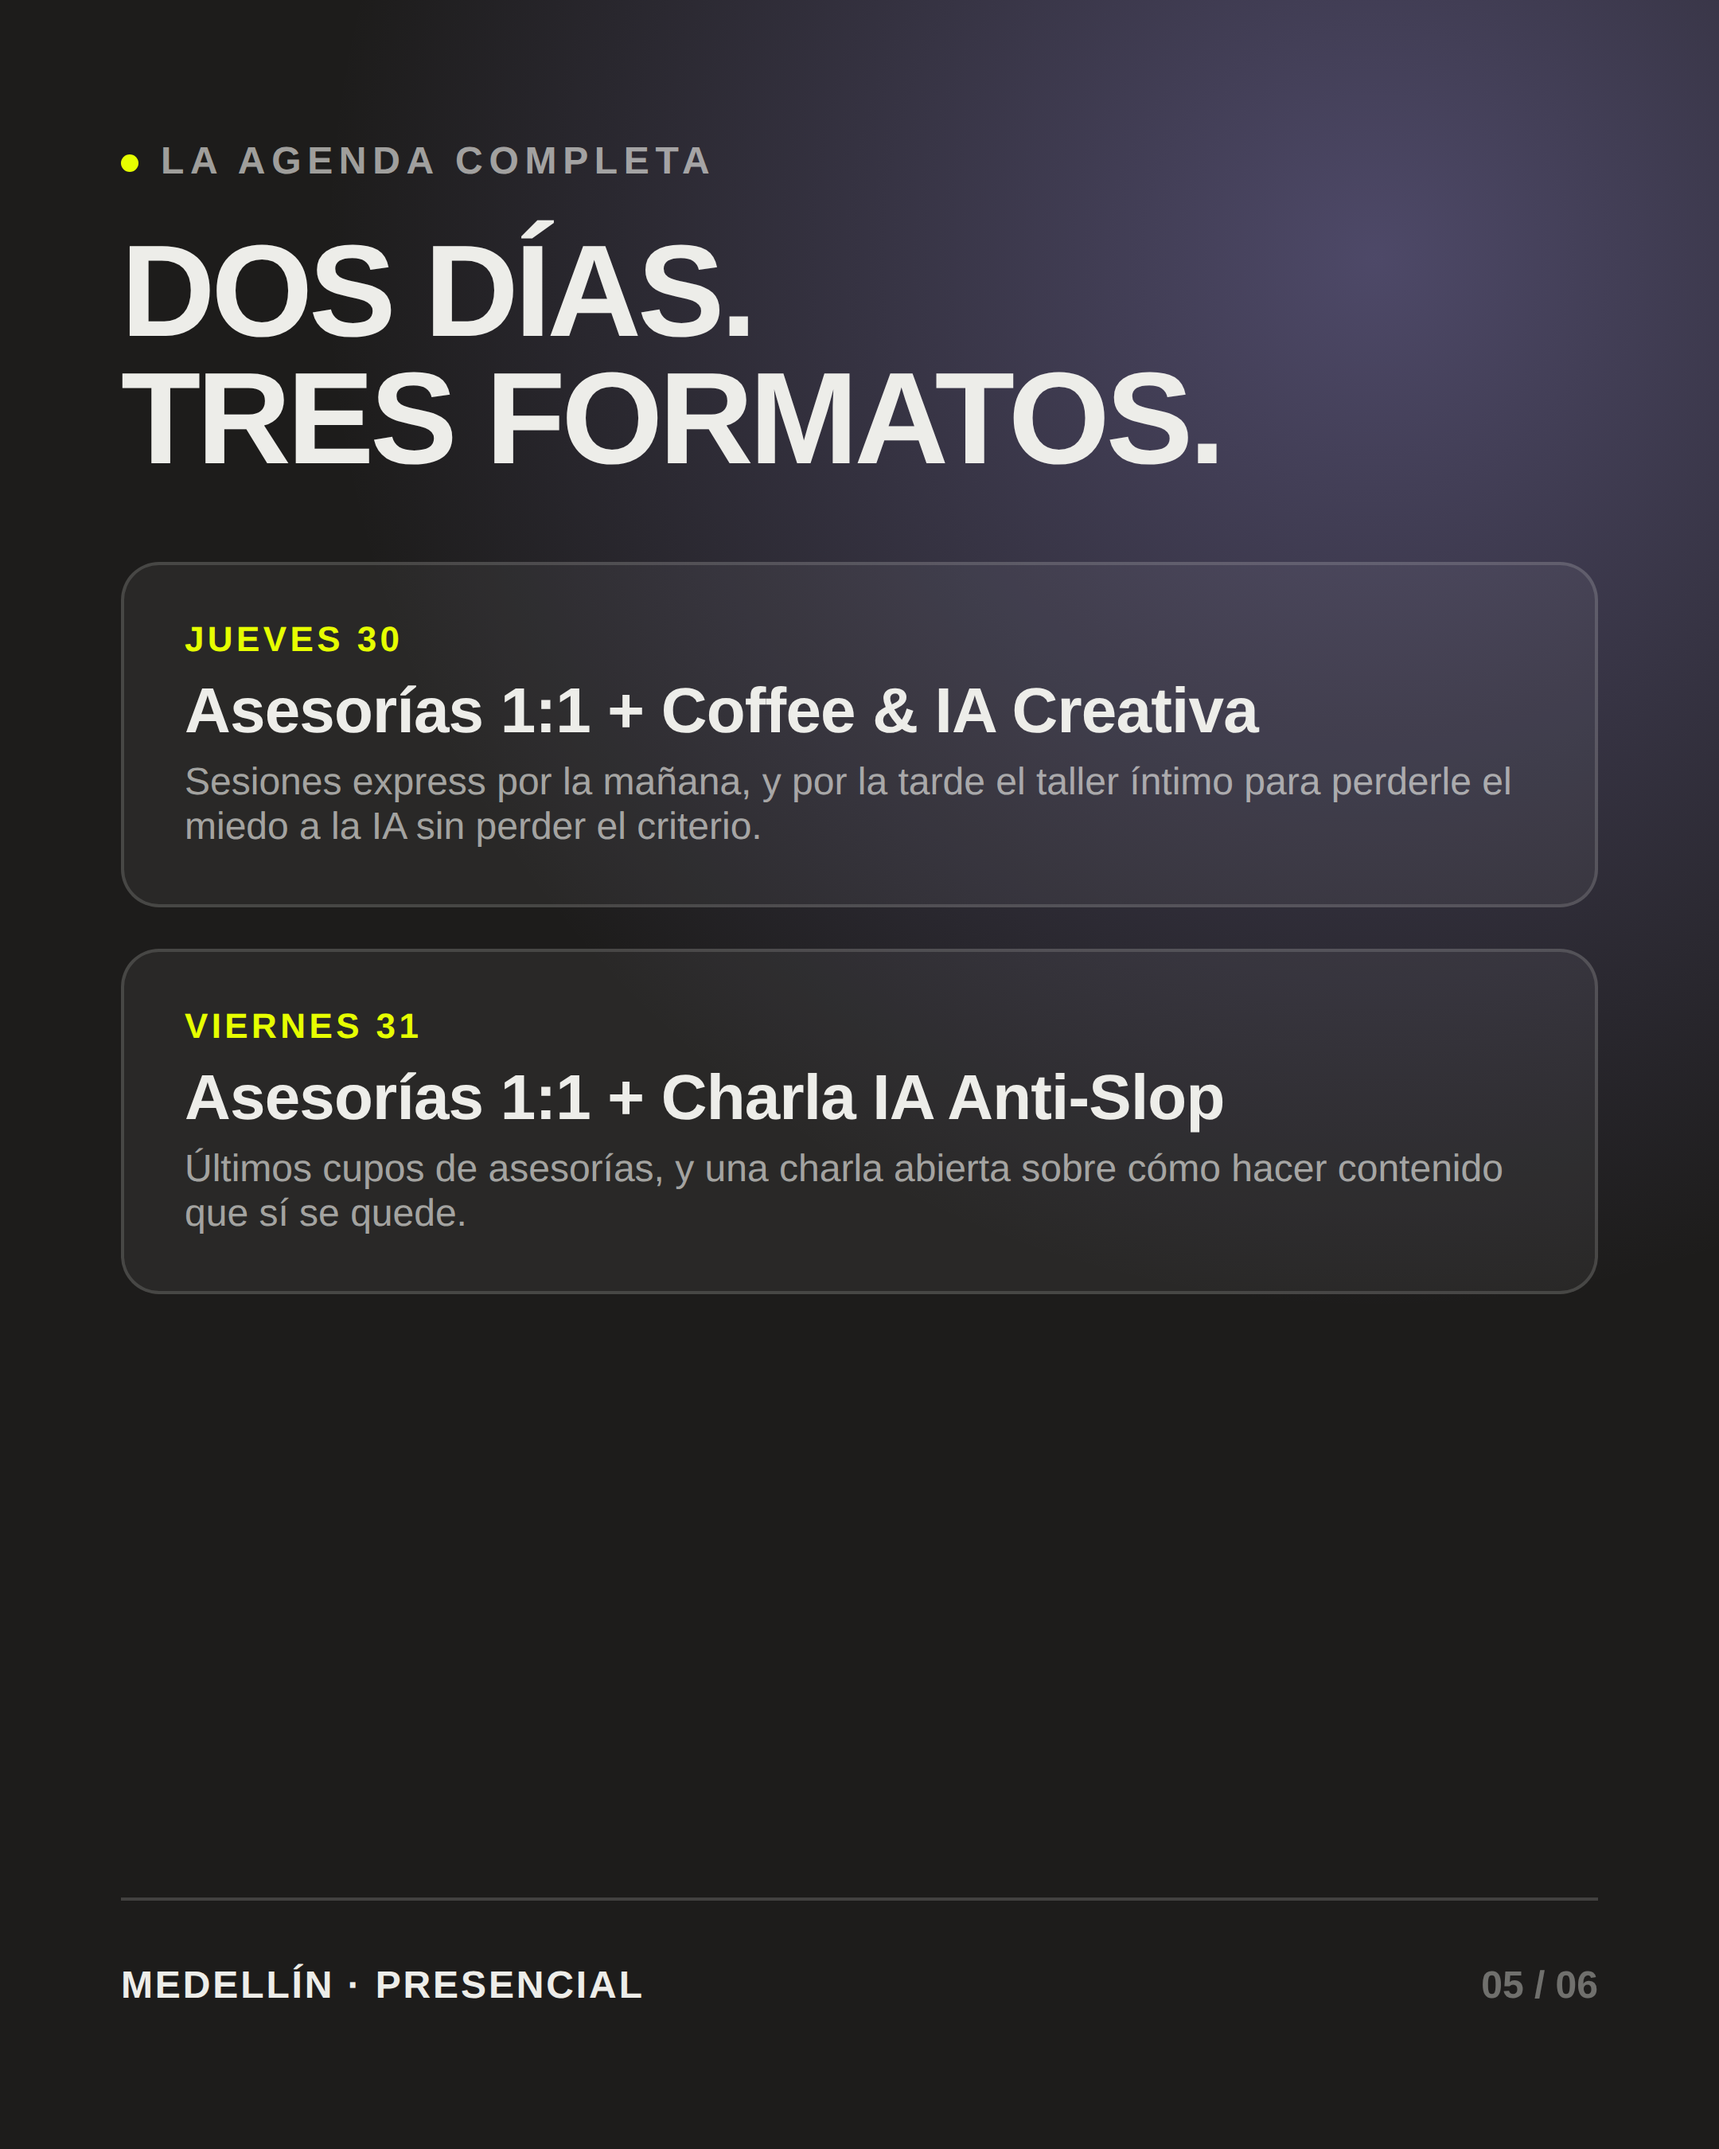
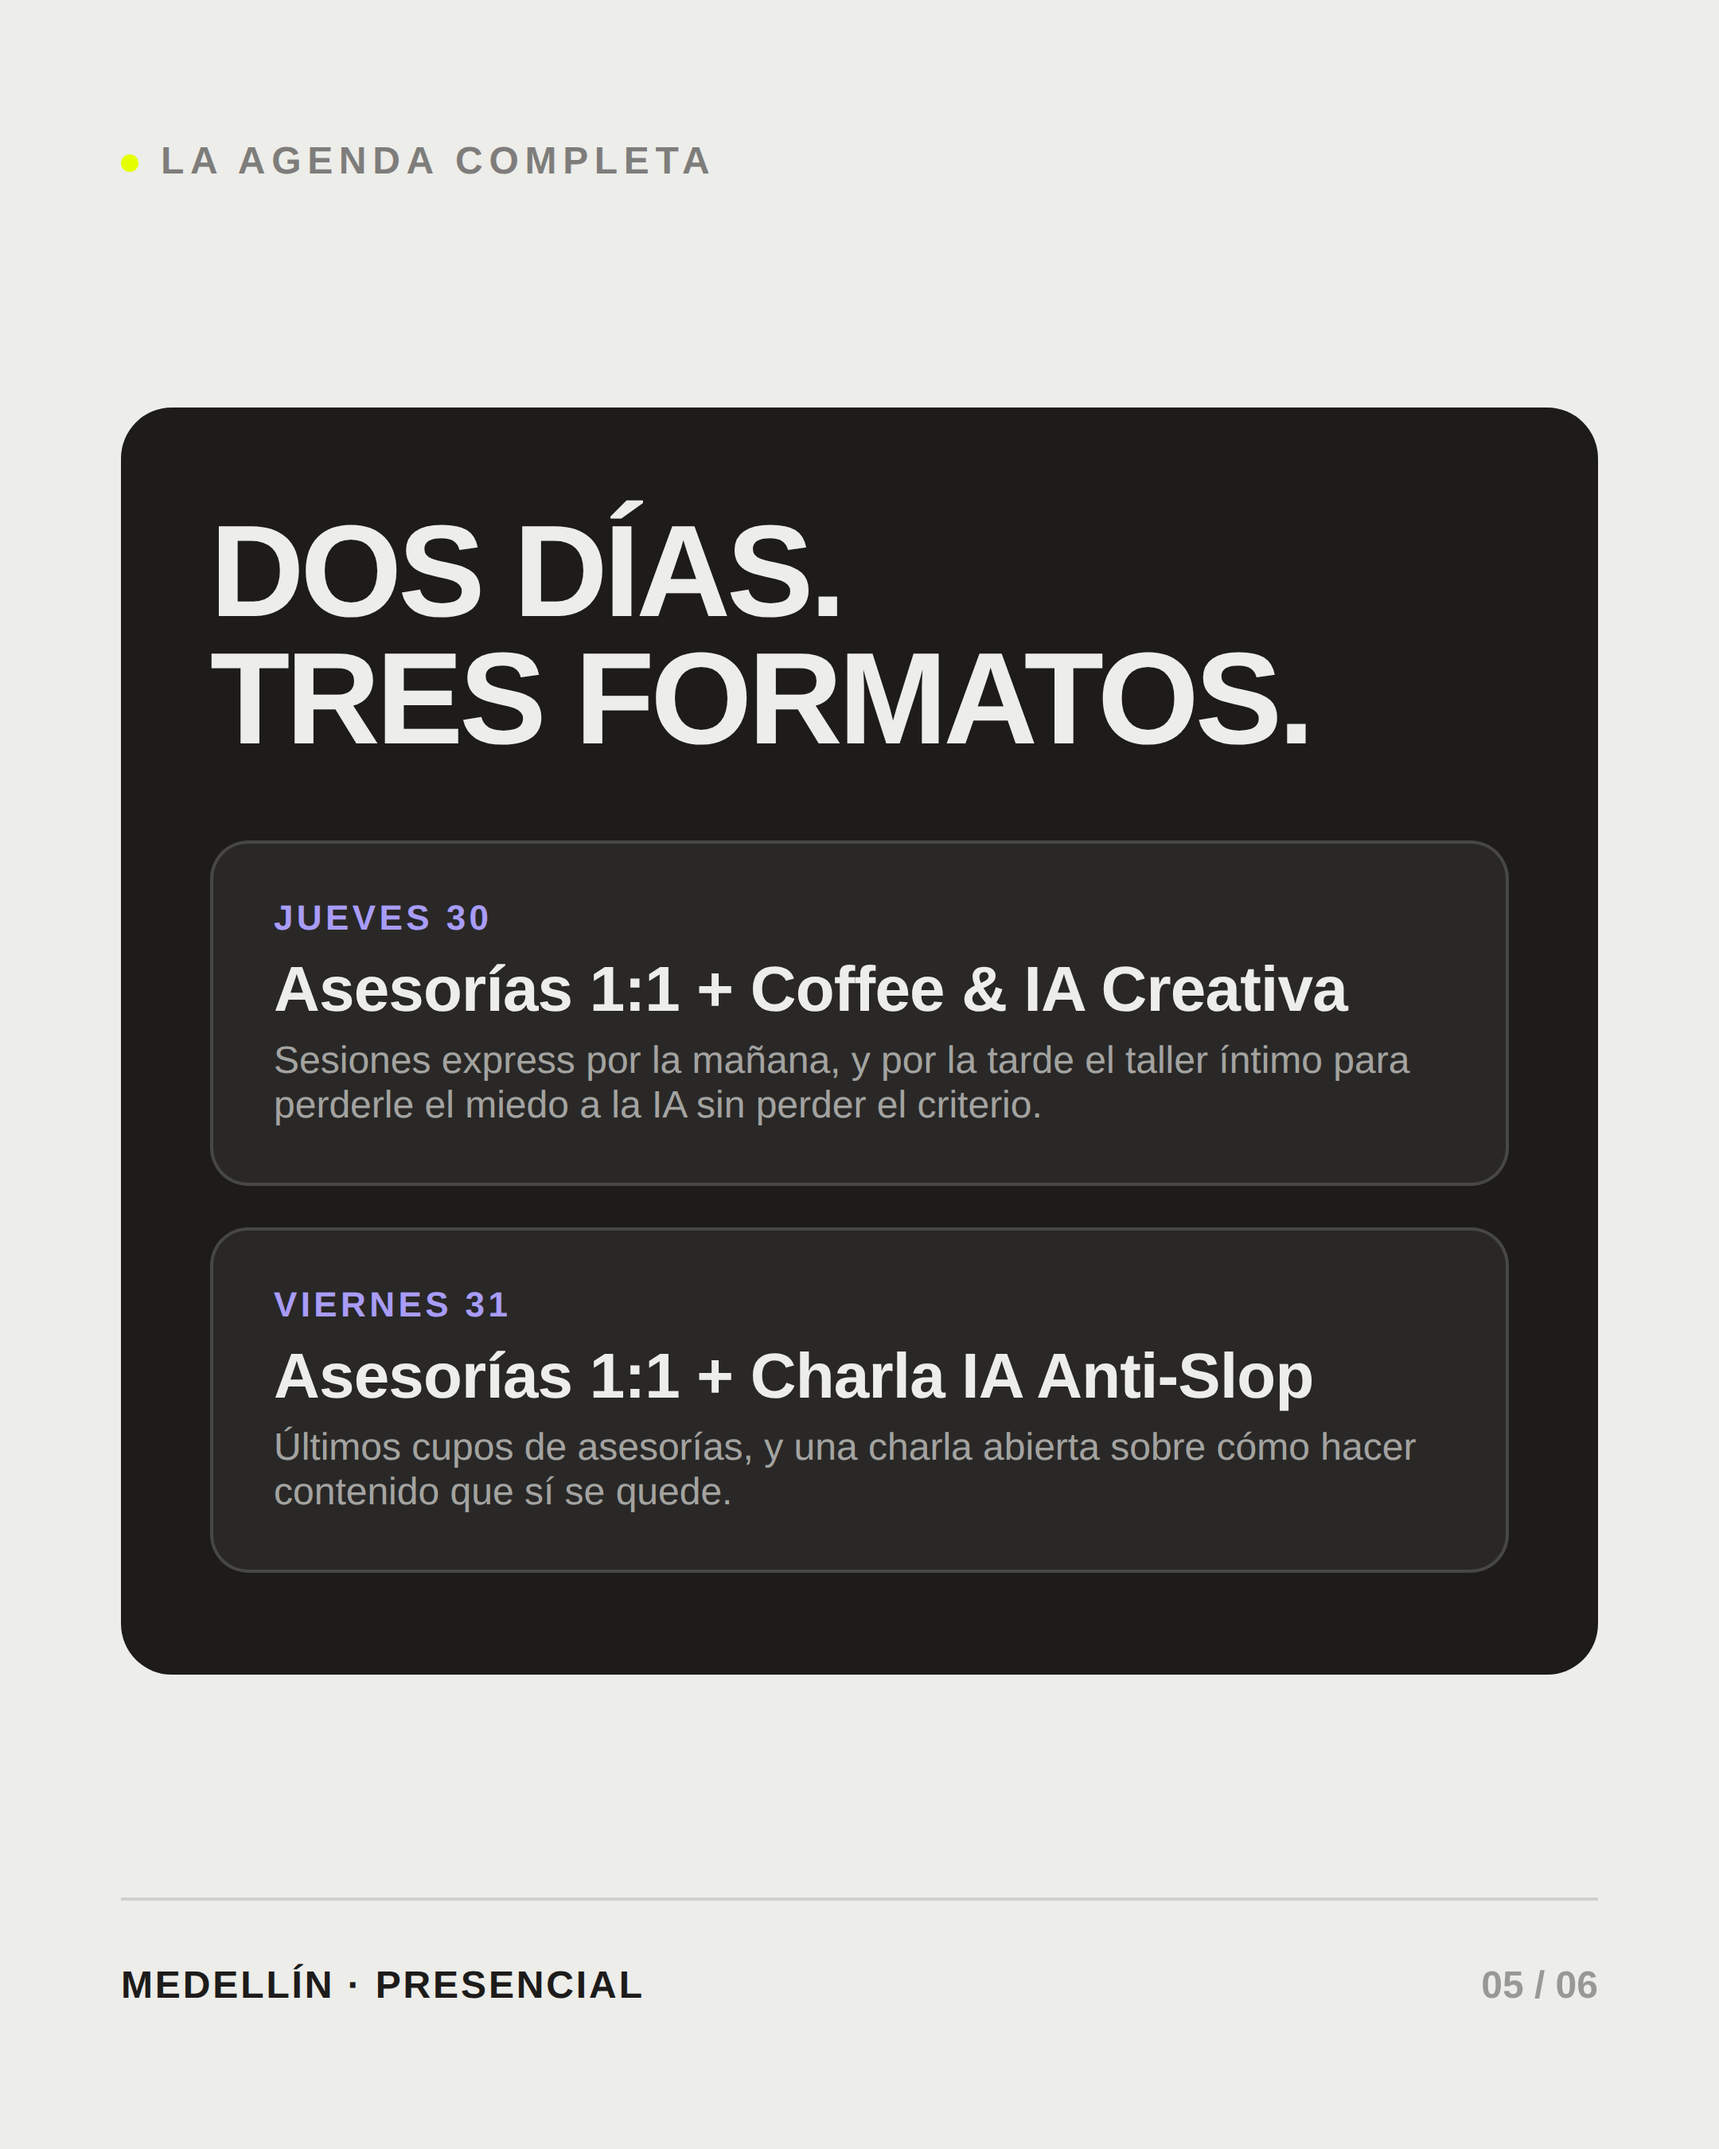
Replace black+yellow dark slides with plum bookends and light cards
Cover and CTA now use a deep plum background (derived from the brand
lilac) instead of pure black, dropping acid yellow entirely. The
workshop and agenda slides move to a light background with an ink
card holding the content, matching the light slides' treatment.
Removes the now-unused preview mockups and dead .dark CSS rules.

diff --git a/Instagram/events-julio-2026/carousel.html b/Instagram/events-julio-2026/carousel.html
@@ -13,6 +13,7 @@
   --ink:#1D1C1B;
   --lilac:#A89CF7;
   --acid:#E6FF00;
+  --plum:#241F3A;
   --ink-soft:rgba(29,28,27,.55);
   --line:rgba(29,28,27,.14);
   --card:#F6F6F3;
@@ -28,13 +29,16 @@ body{background:#3a3a3a;font-family:var(--font-body)}
   position:relative;overflow:hidden;
   margin:0 auto 40px;
 }
-.dark{background:var(--ink);color:var(--bg)}
 .light{background:var(--bg);color:var(--ink)}
+.plum{background:var(--plum);color:var(--bg)}
 
-/* grain-ish glow blobs shared with site hero */
-.glow-a{position:absolute;inset:0;background:radial-gradient(circle at 80% 12%,rgba(168,156,247,.35),transparent 45%);pointer-events:none}
-.glow-b{position:absolute;inset:0;background:radial-gradient(circle at 12% 88%,rgba(230,255,0,.16),transparent 42%);pointer-events:none}
-.glow-c{position:absolute;inset:0;background:radial-gradient(circle at 85% 85%,rgba(168,156,247,.22),transparent 40%);pointer-events:none}
+/* grain-ish glow, used on the plum (bookend) slides only */
+.glow-plum{
+  position:absolute;inset:0;pointer-events:none;
+  background:
+    radial-gradient(circle at 78% 10%,rgba(168,156,247,.4),transparent 45%),
+    radial-gradient(circle at 15% 90%,rgba(168,156,247,.18),transparent 42%);
+}
 
 .pad{position:relative;z-index:1;height:100%;padding:88px 76px;display:flex;flex-direction:column}
 
@@ -44,8 +48,19 @@ body{background:#3a3a3a;font-family:var(--font-body)}
   display:inline-flex;align-items:center;gap:14px;
 }
 .eyebrow .dot{width:11px;height:11px;border-radius:50%;background:var(--acid);display:inline-block}
-.dark .eyebrow{color:rgba(237,237,233,.65)}
 .light .eyebrow{color:var(--ink-soft)}
+.plum .eyebrow{color:rgba(237,237,233,.62)}
+.plum .eyebrow .dot{background:var(--lilac)}
+
+/* dark card used to hold content on an otherwise light slide, vertically centered between eyebrow and footline */
+.card-wrap{flex:1;display:flex;flex-direction:column;justify-content:center;min-height:0}
+.card-dark{
+  background:var(--ink);color:var(--bg);
+  border-radius:32px;padding:64px 56px;
+}
+.card-dark h2.big{margin-top:0}
+.card-dark .lede{color:rgba(237,237,233,.78)}
+.card-dark .body-txt{color:rgba(237,237,233,.72)}
 
 .pill{
   display:inline-flex;align-items:center;gap:.5em;
@@ -55,13 +70,14 @@ body{background:#3a3a3a;font-family:var(--font-body)}
 }
 .pill.alt{background:var(--lilac);color:var(--ink)}
 .pill.outline{background:transparent;border:2px solid currentColor;color:inherit}
+.plum .pill{background:var(--lilac);color:var(--plum)}
+.plum .pill.alt{background:transparent;border:2px solid var(--bg);color:var(--bg)}
 
 h1.mega{
   font-family:var(--font-display);font-weight:900;text-transform:uppercase;
   font-size:112px;line-height:.94;letter-spacing:-.03em;margin-top:34px;
 }
 h1.mega em{font-style:normal;color:var(--lilac)}
-.dark h1.mega em{color:var(--acid)}
 
 h2.big{
   font-family:var(--font-display);font-weight:900;text-transform:uppercase;
@@ -72,7 +88,8 @@ h2.big em{font-style:normal;color:var(--lilac)}
 .lede{font-family:var(--font-display);font-weight:700;font-size:38px;line-height:1.22;letter-spacing:-.01em;margin-top:26px;max-width:840px}
 .body-txt{font-family:var(--font-body);font-weight:500;font-size:27px;line-height:1.5;margin-top:20px;max-width:820px}
 .light .body-txt{color:var(--ink-soft)}
-.dark .body-txt{color:rgba(237,237,233,.72)}
+.plum .lede{color:rgba(237,237,233,.78)}
+.plum .body-txt{color:rgba(237,237,233,.72)}
 
 .num{
   font-family:var(--font-display);font-weight:900;font-size:26px;letter-spacing:.02em;
@@ -81,26 +98,21 @@ h2.big em{font-style:normal;color:var(--lilac)}
 
 /* offering list */
 .offer-list{margin-top:44px;border-top:2px solid var(--line);}
-.light .offer-list{border-color:var(--line)}
-.dark .offer-list{border-color:rgba(237,237,233,.18)}
 .offer{
   display:flex;gap:28px;align-items:flex-start;
   padding:30px 0;border-bottom:2px solid var(--line);
 }
-.dark .offer{border-color:rgba(237,237,233,.18)}
 .offer h3{font-family:var(--font-display);font-weight:700;font-size:32px;letter-spacing:-.01em}
 .offer p{font-family:var(--font-body);font-weight:500;font-size:23px;margin-top:6px;line-height:1.4}
 .light .offer p{color:var(--ink-soft)}
-.dark .offer p{color:rgba(237,237,233,.65)}
 .dot-mark{width:20px;height:20px;border-radius:50%;margin-top:8px;flex:none}
 .d1{background:var(--lilac)}.d2{background:var(--acid)}.d3{background:var(--ink)}
-.dark .d3{background:var(--bg)}
 
 .footline{
   margin-top:auto;display:flex;justify-content:space-between;align-items:flex-end;
   padding-top:40px;border-top:2px solid var(--line);
 }
-.dark .footline{border-color:rgba(237,237,233,.18)}
+.plum .footline{border-top-color:rgba(237,237,233,.18)}
 .footline .tag{font-family:var(--font-body);font-weight:600;font-size:24px;letter-spacing:.06em;text-transform:uppercase}
 .footline .idx{font-family:var(--font-display);font-weight:900;font-size:24px;opacity:.4}
 
@@ -130,7 +142,7 @@ h2.big em{font-style:normal;color:var(--lilac)}
   background:rgba(237,237,233,.06);border:2px solid rgba(237,237,233,.16);
   border-radius:24px;padding:34px 38px;
 }
-.sched-day .d-label{font-family:var(--font-display);font-weight:900;font-size:22px;letter-spacing:.1em;text-transform:uppercase;color:var(--acid)}
+.sched-day .d-label{font-family:var(--font-display);font-weight:900;font-size:22px;letter-spacing:.1em;text-transform:uppercase;color:var(--lilac)}
 .sched-day h3{font-family:var(--font-display);font-weight:800;font-size:40px;margin-top:10px;letter-spacing:-.01em}
 .sched-day p{font-family:var(--font-body);font-weight:500;font-size:24px;margin-top:8px;color:rgba(237,237,233,.65)}
 
@@ -139,7 +151,7 @@ h2.big em{font-style:normal;color:var(--lilac)}
   font-family:var(--font-display);font-weight:900;text-transform:uppercase;
   font-size:96px;letter-spacing:-.04em;line-height:.9;margin-top:auto;
 }
-.cta-wordmark .sub{display:block;font-size:.34em;color:var(--acid);font-weight:700;margin-top:.3em;letter-spacing:.02em}
+.cta-wordmark .sub{display:block;font-size:.34em;color:var(--lilac);font-weight:700;margin-top:.3em;letter-spacing:.02em}
 .contact-line{font-family:var(--font-body);font-weight:600;font-size:30px;margin-top:30px;letter-spacing:.01em}
 .contact-line a{color:inherit}
 
@@ -149,7 +161,7 @@ h2.big em{font-style:normal;color:var(--lilac)}
   font-family:var(--font-body);font-weight:600;font-size:27px;
 }
 .check-list .ck{
-  width:34px;height:34px;border-radius:50%;background:var(--acid);color:var(--ink);
+  width:34px;height:34px;border-radius:50%;background:var(--lilac);color:var(--plum);
   display:flex;align-items:center;justify-content:center;font-weight:900;font-size:18px;flex:none;
 }
 </style>
@@ -157,8 +169,8 @@ h2.big em{font-style:normal;color:var(--lilac)}
 <body>
 
 <!-- ===================== SLIDE 1 — COVER ===================== -->
-<section class="slide dark" id="slide-1">
-  <div class="glow-a"></div><div class="glow-b"></div>
+<section class="slide plum" id="slide-1">
+  <div class="glow-plum"></div>
   <div class="pad">
     <span class="eyebrow"><span class="dot"></span>Medellín · Presencial</span>
     <h1 class="mega">Basta de<br>piloto<br>automático<em>*</em></h1>
@@ -202,18 +214,19 @@ h2.big em{font-style:normal;color:var(--lilac)}
 </section>
 
 <!-- ===================== SLIDE 3 — TALLER EXPRESS IA ===================== -->
-<section class="slide dark" id="slide-3">
-  <div class="glow-c"></div>
+<section class="slide light" id="slide-3">
   <div class="pad">
     <span class="eyebrow"><span class="dot"></span>02 — Taller Express</span>
-    <h2 class="big">Coffee &amp;<br><em>IA</em> creativa</h2>
-    <p class="lede">Una tarde para dejar de darle vueltas al mismo prompt. 1.5 horas para creativos que quieren usar la IA sin que se les note el piloto automático.</p>
-    <p class="body-txt">Mesa compartida, en un espacio aliado (café de especialidad o coworking). Nada de webinar ni clase magistral — se prueba, se comenta entre pares, y te llevas algo real de vuelta al estudio.</p>
+    <div class="card-wrap"><div class="card-dark">
+      <h2 class="big">Coffee &amp;<br><em>IA</em> creativa</h2>
+      <p class="lede">Una tarde para dejar de darle vueltas al mismo prompt. 1.5 horas para creativos que quieren usar la IA sin que se les note el piloto automático.</p>
+      <p class="body-txt">Mesa compartida, en un espacio aliado (café de especialidad o coworking). Nada de webinar ni clase magistral — se prueba, se comenta entre pares, y te llevas algo real de vuelta al estudio.</p>
 
-    <div class="chips-row">
-      <span class="pill alt">Jueves 30 julio</span>
-      <span class="pill outline">Cupos reducidos</span>
-    </div>
+      <div class="chips-row">
+        <span class="pill alt">Jueves 30 julio</span>
+        <span class="pill outline">Cupos reducidos</span>
+      </div>
+    </div></div>
 
     <div class="footline">
       <span class="tag">Medellín</span>
@@ -242,24 +255,25 @@ h2.big em{font-style:normal;color:var(--lilac)}
 </section>
 
 <!-- ===================== SLIDE 5 — AGENDA ===================== -->
-<section class="slide dark" id="slide-5">
-  <div class="glow-a"></div>
+<section class="slide light" id="slide-5">
   <div class="pad">
     <span class="eyebrow"><span class="dot"></span>La agenda completa</span>
-    <h2 class="big">Dos días.<br>Tres formatos.</h2>
+    <div class="card-wrap"><div class="card-dark">
+      <h2 class="big">Dos días.<br>Tres formatos.</h2>
 
-    <div class="sched">
-      <div class="sched-day">
-        <span class="d-label">Jueves 30</span>
-        <h3>Asesorías 1:1 + Coffee &amp; IA Creativa</h3>
-        <p>Sesiones express por la mañana, y por la tarde el taller íntimo para perderle el miedo a la IA sin perder el criterio.</p>
+      <div class="sched">
+        <div class="sched-day">
+          <span class="d-label">Jueves 30</span>
+          <h3>Asesorías 1:1 + Coffee &amp; IA Creativa</h3>
+          <p>Sesiones express por la mañana, y por la tarde el taller íntimo para perderle el miedo a la IA sin perder el criterio.</p>
+        </div>
+        <div class="sched-day">
+          <span class="d-label">Viernes 31</span>
+          <h3>Asesorías 1:1 + Charla IA Anti-Slop</h3>
+          <p>Últimos cupos de asesorías, y una charla abierta sobre cómo hacer contenido que sí se quede.</p>
+        </div>
       </div>
-      <div class="sched-day">
-        <span class="d-label">Viernes 31</span>
-        <h3>Asesorías 1:1 + Charla IA Anti-Slop</h3>
-        <p>Últimos cupos de asesorías, y una charla abierta sobre cómo hacer contenido que sí se quede.</p>
-      </div>
-    </div>
+    </div></div>
 
     <div class="footline">
       <span class="tag">Medellín · Presencial</span>
@@ -269,8 +283,8 @@ h2.big em{font-style:normal;color:var(--lilac)}
 </section>
 
 <!-- ===================== SLIDE 6 — CTA ===================== -->
-<section class="slide dark" id="slide-6">
-  <div class="glow-a"></div><div class="glow-b"></div>
+<section class="slide plum" id="slide-6">
+  <div class="glow-plum"></div>
   <div class="pad">
     <span class="eyebrow"><span class="dot"></span>Cupos abiertos ahora</span>
     <h2 class="big">Sal del<br>piloto<br>automático<em>*</em></h2>
